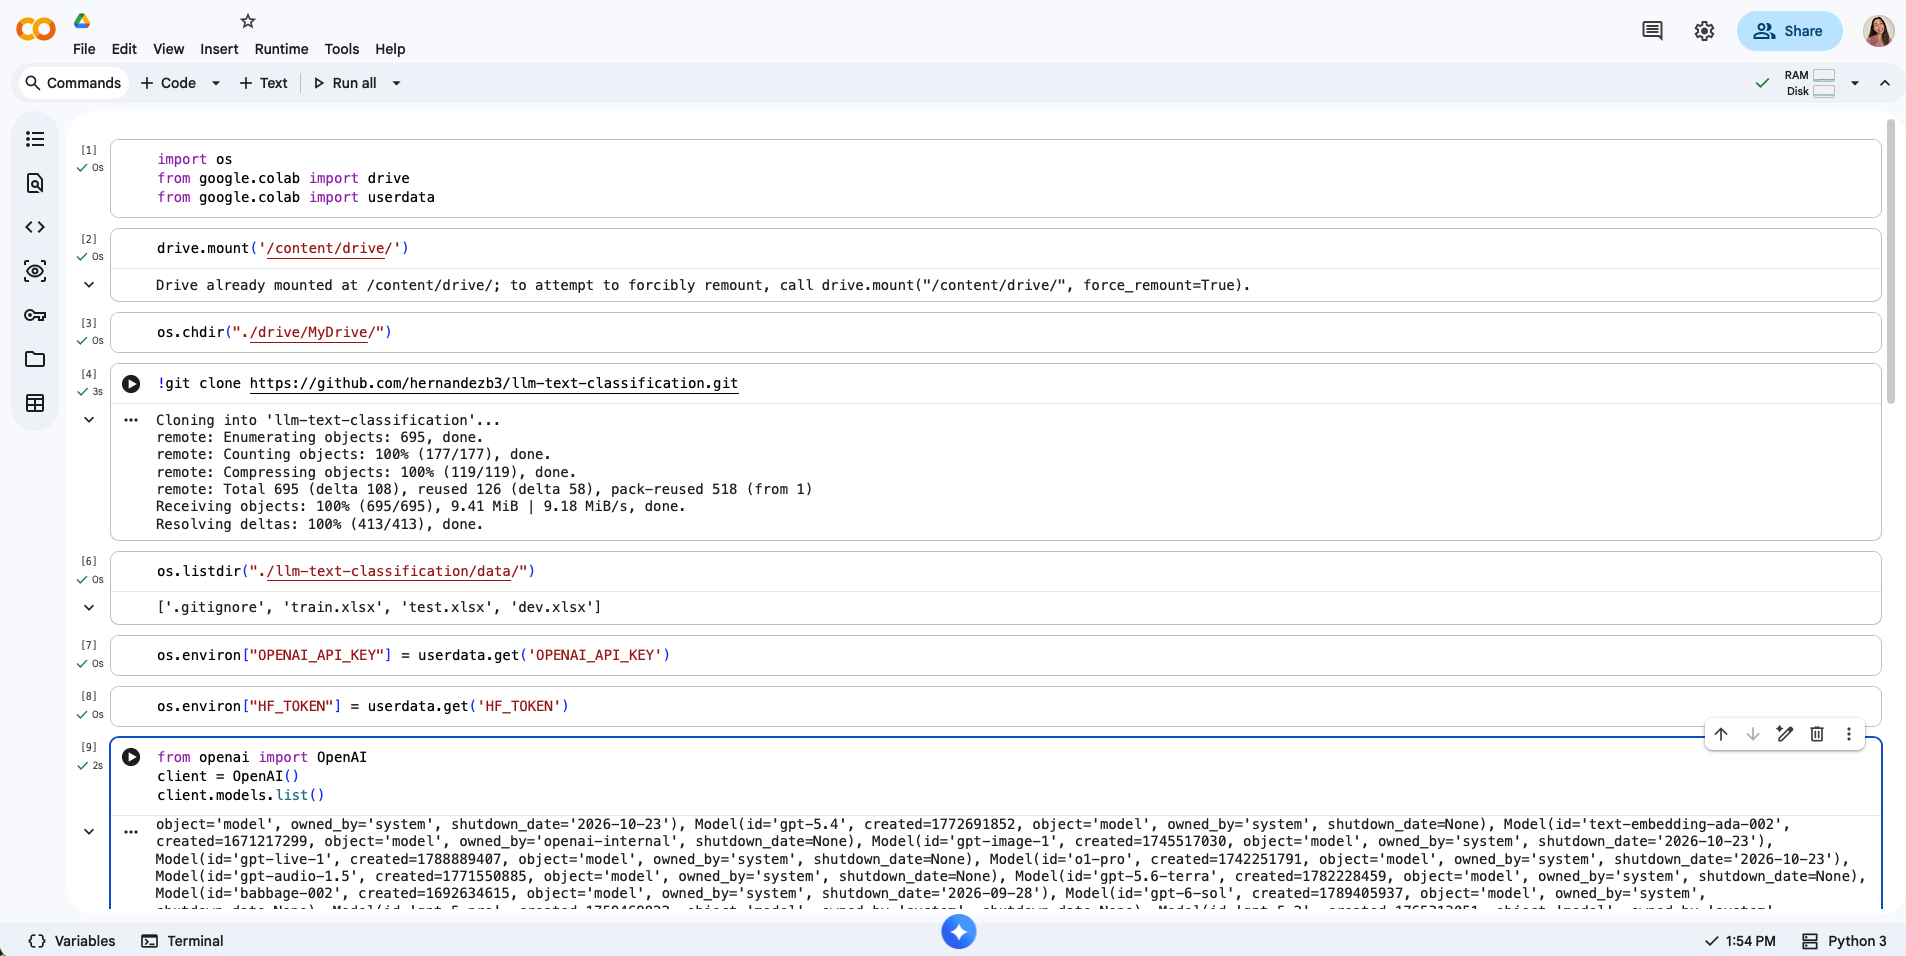
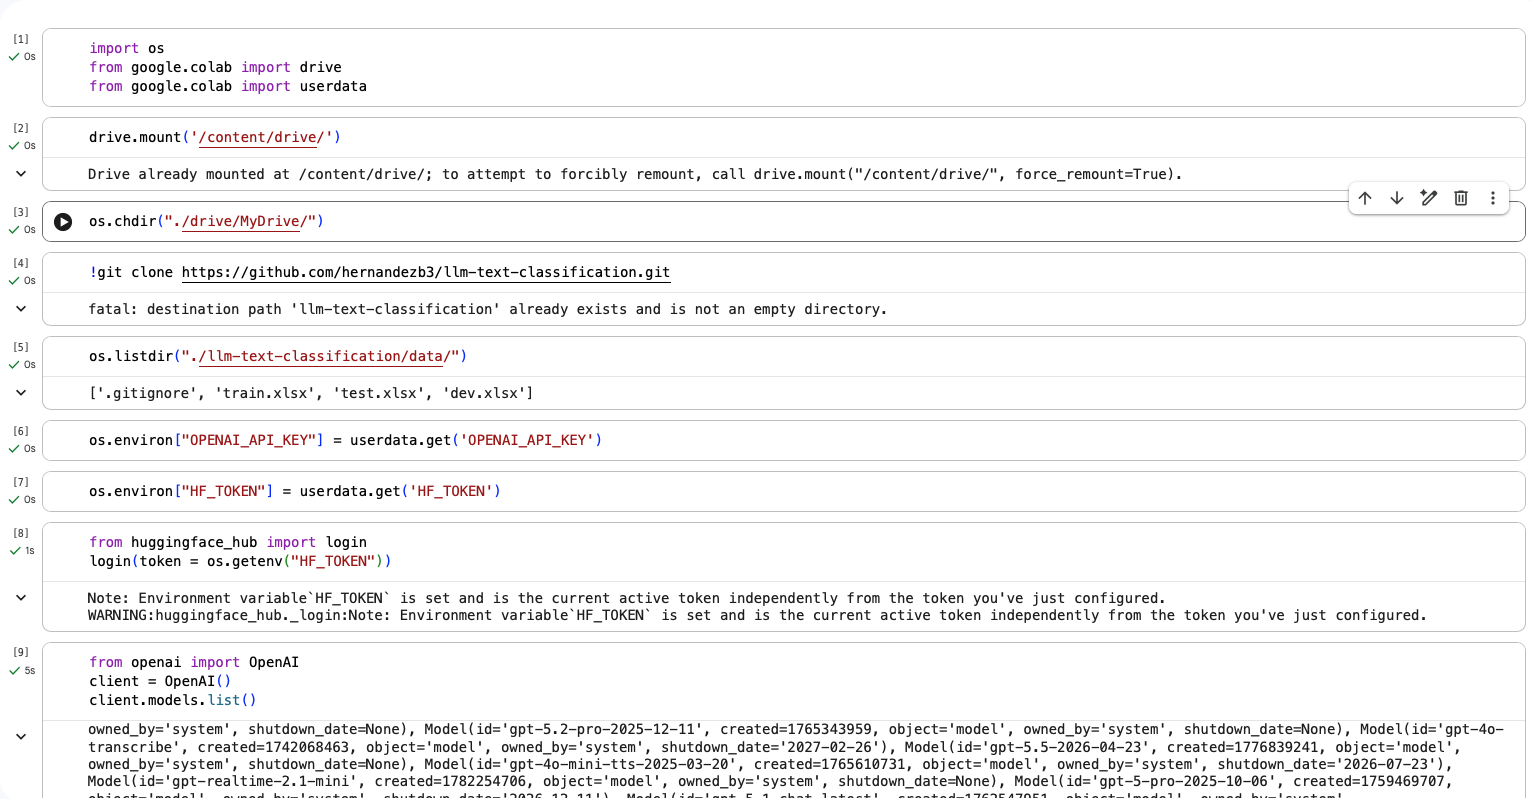
make cute

diff --git a/README.md b/README.md
@@ -123,14 +123,14 @@ To add a new chunk of code to your notebook click **+ Code**. Run each chunk of 
 </p>
 
 ### Clone the GitHub repo
-Copy and paste the code below into a code chunk in your new Colab Notebook. It will import some packages.
+Copy, paste, and run the code below into a code chunk in your new Colab Notebook. It will import some packages.
 ```
 import os
 from google.colab import drive
 from google.colab import userdata
 ```
 
-Mount your Google Drive account to the Colab notebook. You will be prompted to sign in to Google Drive and agree to let the notebook access your account.
+Mount your Google Drive account to the Colab notebook. You will be prompted to sign in to Google Drive and grant the notebook access to your account.
 ```
 drive.mount('/content/drive/')
 ```
@@ -152,32 +152,35 @@ Navigate to Google Drive. You should now see a folder called `llm-text-classific
 <img src="readme_images/google drive.png" height="500">
 </p>
 
-Navigate to `My Drive/llm-text-classification/data/`
+Go into the `llm-text-classification/` folder and then into the the `data/` folder in 
 
-Download the `train.xlsx`, `dev.xlsx`, and `test.xlsx` files from `data-shared` below and upload them to the `llm-text-classification/data/` folder.
+Download the `train.xlsx`, `dev.xlsx`, and `test.xlsx` files from the `data-shared/` (linked below) and upload them to the `llm-text-classification/data/` folder.
 
-- [data-shared](https://uconn-my.sharepoint.com/:f:/g/personal/brittney_hernandez_uconn_edu/IgBK64FIE_1zS7aIGgZqEw0VAVnvvbCgYIYqzkKFFeRBaG4?e=e482Jo)/
+- [data-shared/](https://uconn-my.sharepoint.com/:f:/g/personal/brittney_hernandez_uconn_edu/IgBK64FIE_1zS7aIGgZqEw0VAVnvvbCgYIYqzkKFFeRBaG4?e=e482Jo)
 
-*Note.* This folder is password-protected. You will receive an email before the training session with a 1Password Item that includes a password to the data. 
+*Note.* The `data-shared/` folder is password-protected. You will receive an email before the training session with a 1Password Item that includes a password to the data. 
 
-Go back to your Google Colab notebook and run,
+Return to your Google Colab notebook and run,
 ```
 os.listdir("./llm-text-classification/data/")
 ```
-Your output should list dev.xlsx, test.xlsx, train.xlsx
+Your output should include train.xlsx, dev.xlsx, and test.xlsx.
 
 ### Save Secrets
 Navigate to the left panel and click on 🔑 **Secrets**. Use **+ Add new secret** to add two new secrets and `HF_TOKEN` and `OPENAI_API_KEY`. 
 
 <img src="https://storage.googleapis.com/generativeai-downloads/images/secrets.jpg" alt="You can find the Secrets tab on the left panel." width=50%>
 
-Add the Hugging Face token you created to the variable, HF_TOKEN. 
+Add your Hugging Face token to Secrets. Name it `HF_TOKEN` and add your token to the Value column. 
 
-In the 1Password Item shared via email you will find a section called OPENAI_API_KEY with a key. Copy and paste both the name and key into your Google Colab Secrets. 
+Add the Open AI key to Secrets. Name it `OPENAI_API_KEY` and add the key shared in the 1Password Item. 
 
-Toggle **Notebook access** on. 
+Toggle **Notebook access** on for both keys. 
+<p align="center">
+<img src="readme_images/output.png" height="200">
+</p>
 
-Check that your secrets loaded by running
+Check that your secrets loaded by running,
 ```
 os.environ["HF_TOKEN"] = userdata.get('HF_TOKEN')
 ```
@@ -188,11 +191,19 @@ os.environ["OPENAI_API_KEY"] = userdata.get('OPENAI_API_KEY')
 
 ### Run a Test
 
+Test your Hugging Face Token:
+```
+from huggingface_hub import login
+login(token = os.getenv("HF_TOKEN"))
+```
+
+Test the Open AI Key:
 ```
 from openai import OpenAI
 client = OpenAI()
 client.models.list()
 ```
+
 
 Your output should look like this:
 <p align="center">
